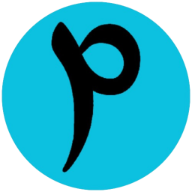
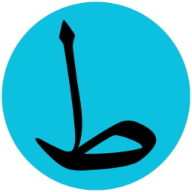
Changed name to Taqs

Changed region(s): [[0.1875, 0.0938, 0.8438, 0.9062]]

diff --git a/index.html b/index.html
@@ -20,7 +20,7 @@
             </div>
             <div class="info">
                 <div class="upper">
-                    Mausam
+                    طقس
                 </div>
                 <div class="lower">
                     <div class="temp" id="cityTemp"></div>

diff --git a/style.css b/style.css
@@ -66,7 +66,7 @@
 }
 
 .upper{
-    font-size: 0.9rem;
+    font-size: 1.5rem;
     font-weight: 600;
 }
 

diff --git a/README.md b/README.md
@@ -1,11 +1,11 @@
-# Mausam - Weather Web Application
-![image](https://github.com/MOHAMMAD-SARFARAZ-AFZAL/mausam/assets/76653459/b3329747-929c-4918-afbe-4af89686718a)
+# طقس (Taqs) - Weather Web Application
+![alt text](image.png)
 
 
 
 
 ## Overview
-Welcome to the official repository for Mausam, a beautifully designed and responsive weather web application. Mausam provides real-time weather updates and forecasts to users, helping them stay informed about current and upcoming weather conditions in their area.
+Welcome to the official repository for Taqs, a beautifully designed and responsive weather web application. Taqs provides real-time weather updates to users, helping them stay informed about current weather conditions in their area.
 
 ## Features
 #### Current Weather: Display current weather conditions including temperature, humidity, wind speed, and more.
